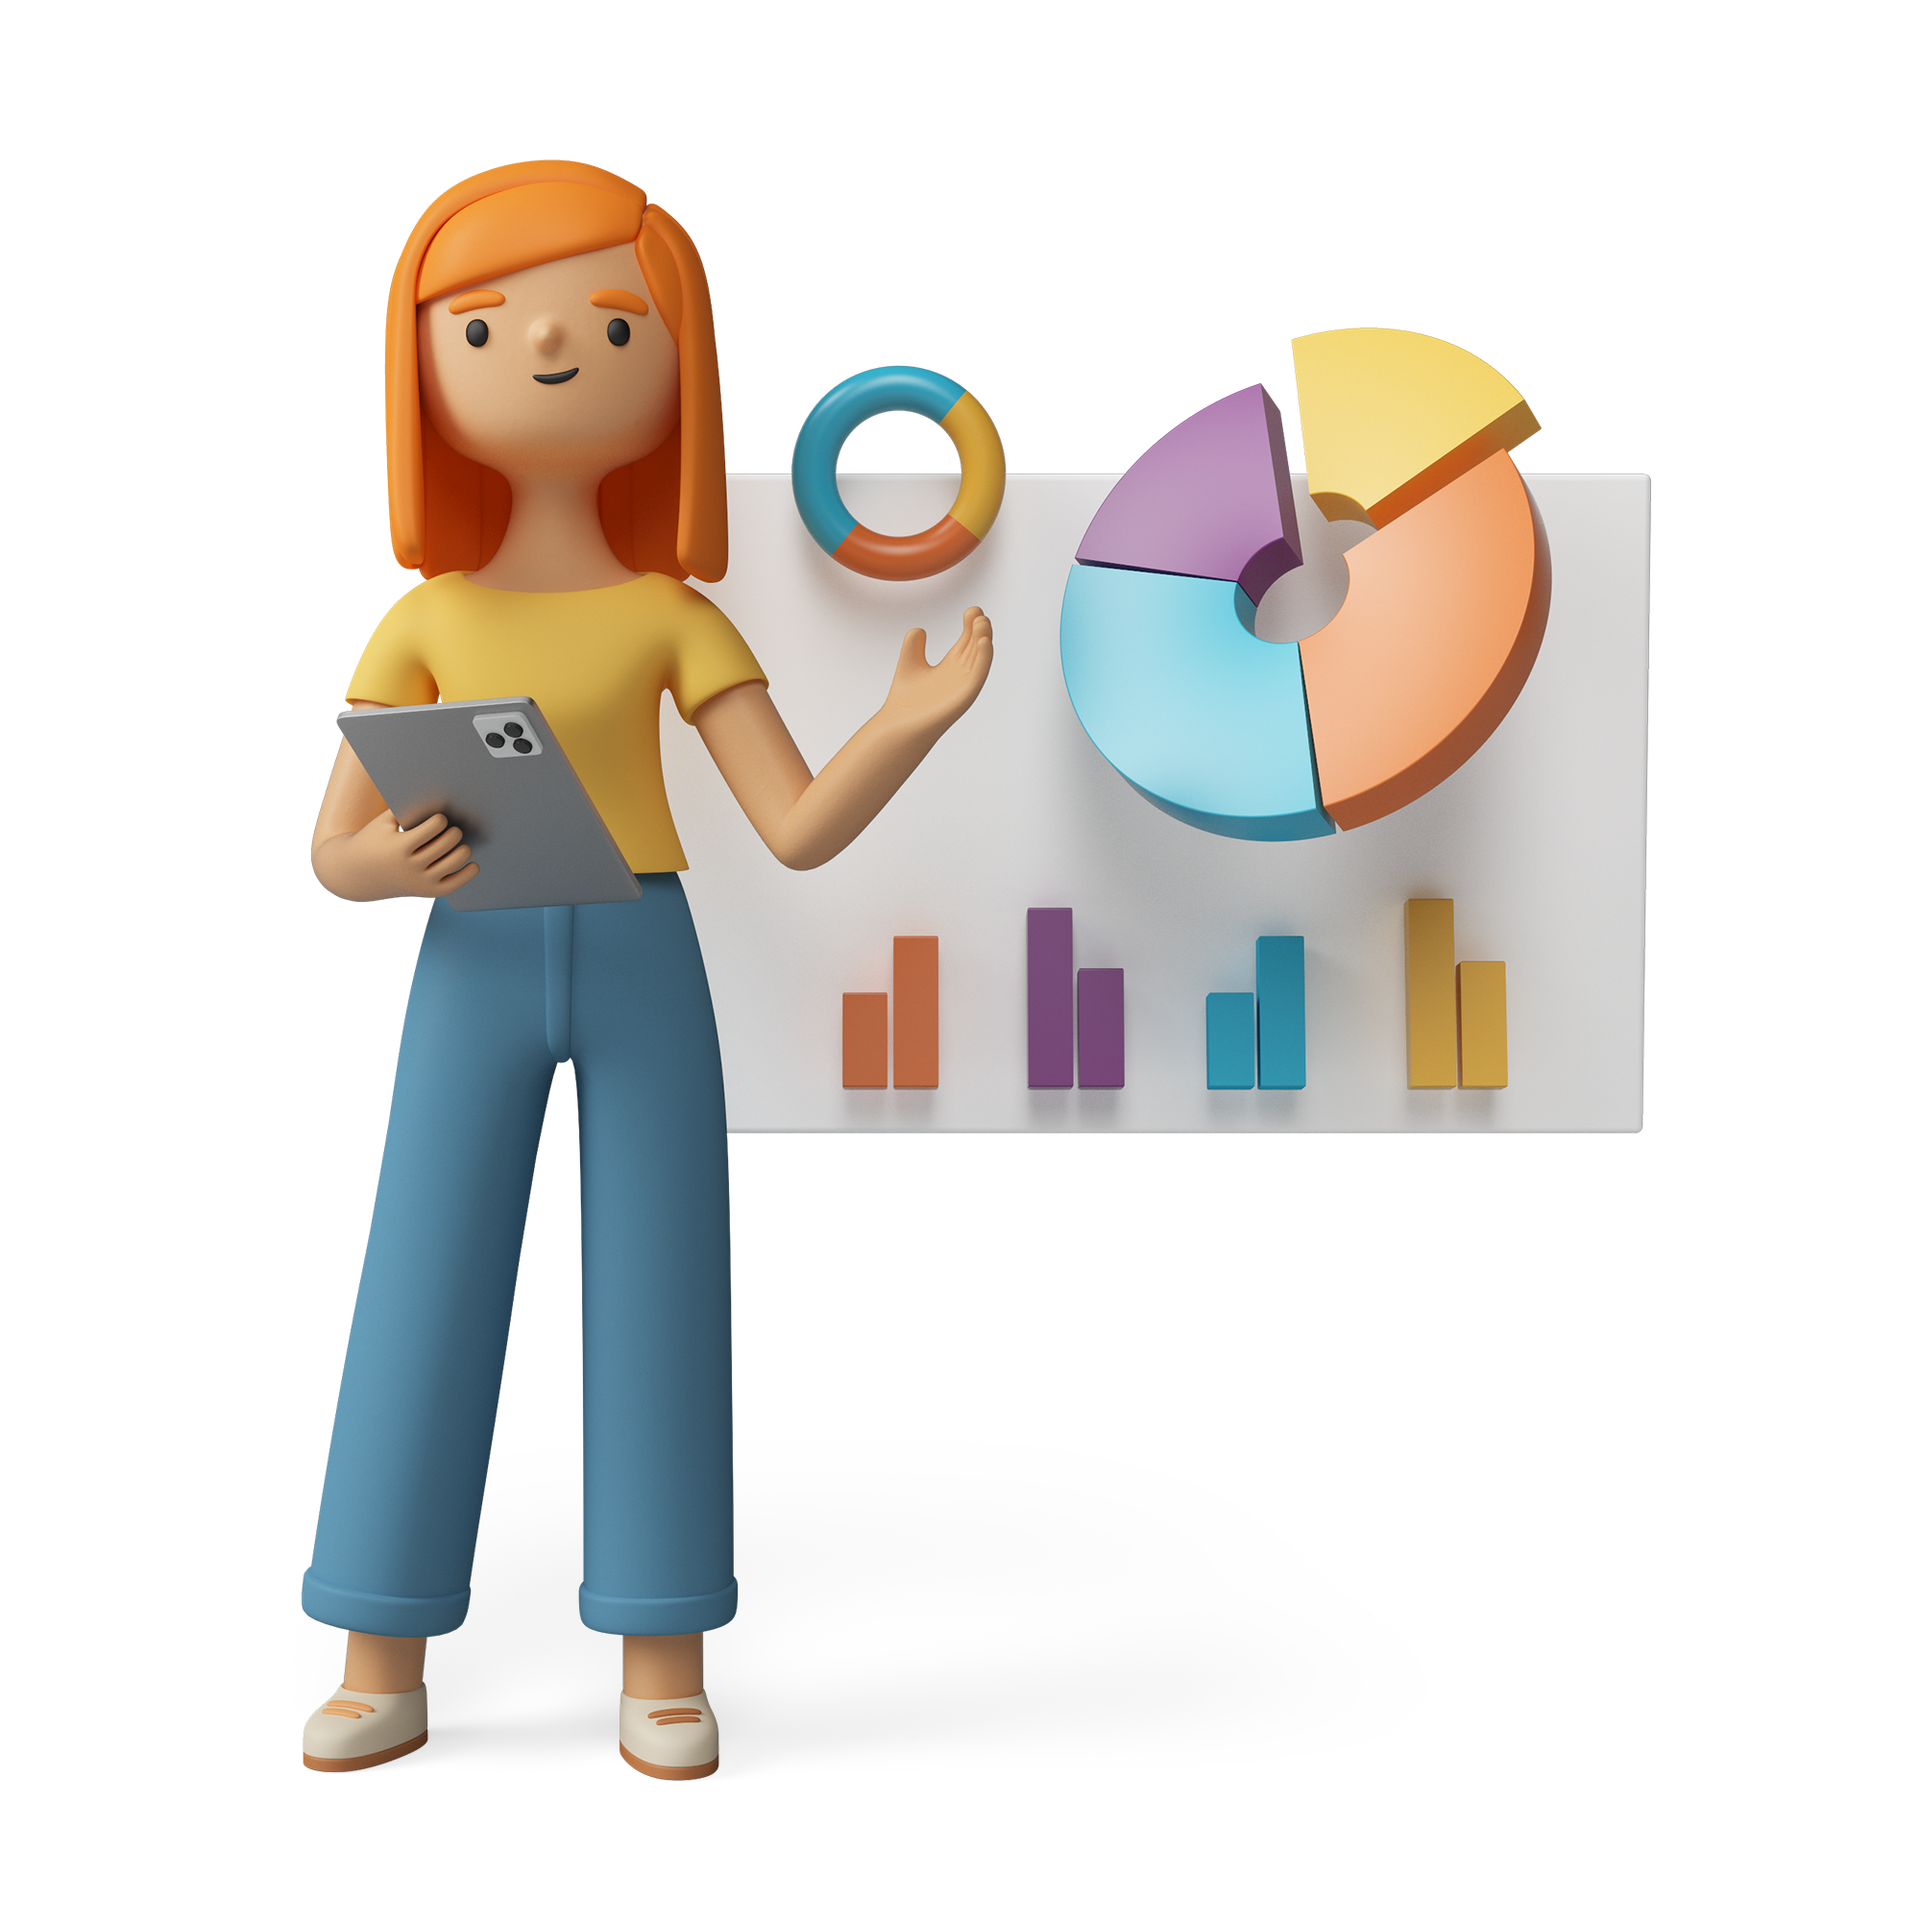
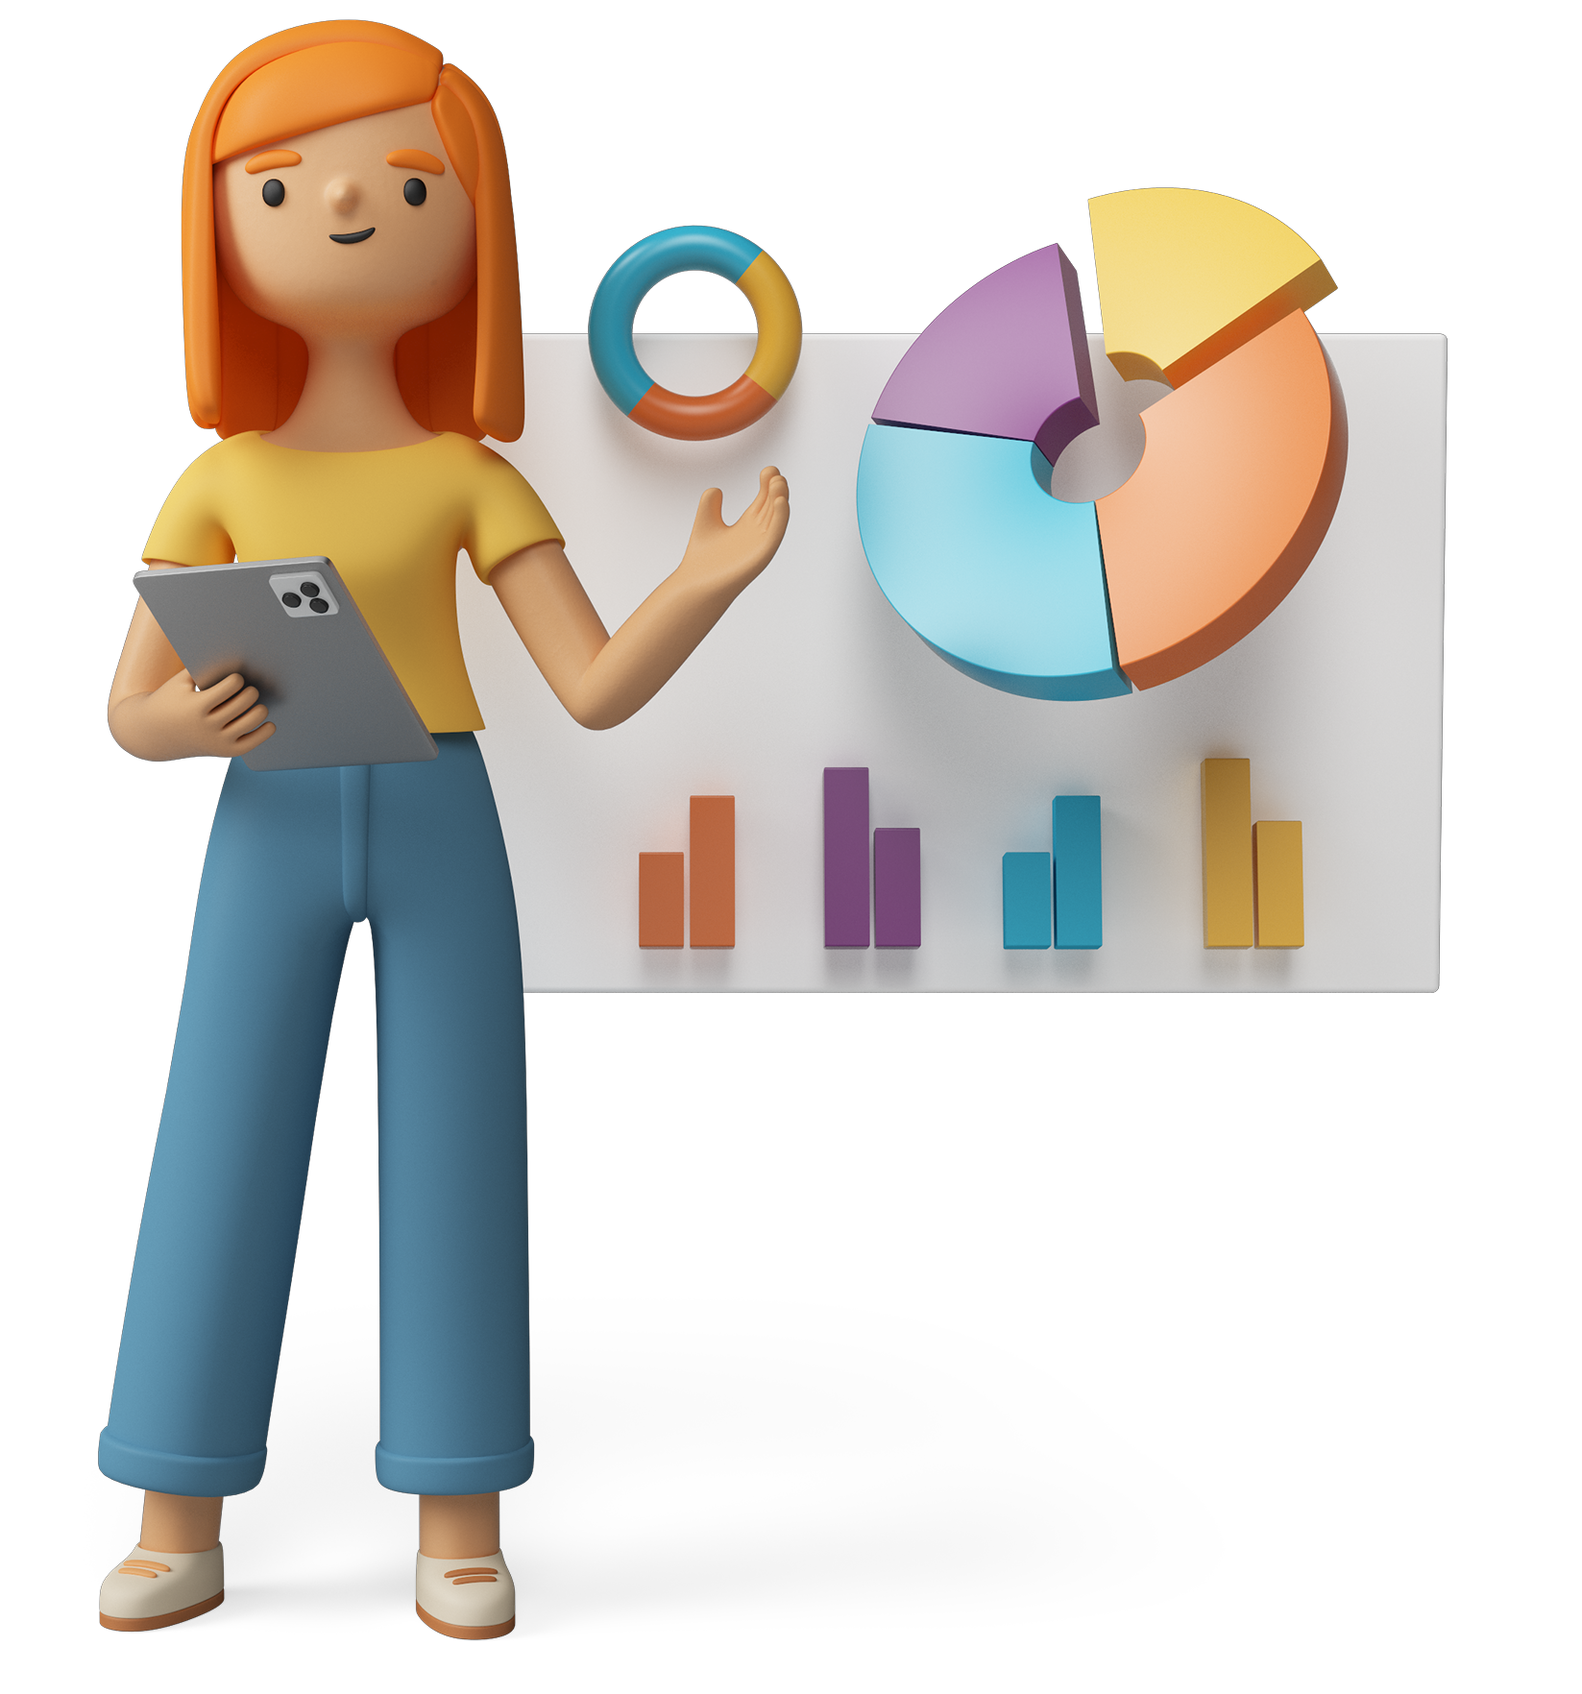
HowItWorks section stuled to be responsive

diff --git a/src/components/HowItWorks/index.jsx b/src/components/HowItWorks/index.jsx
@@ -4,27 +4,30 @@ import chartCharacter from './chart.png';
 export const HowItWorks = () => {
   return (
     <section className="howItWorks" id="howItWorks">
-      <h2 className="howItWorks__heading">Jak pracovat s testy?</h2>
-      <div className="howItWorks__container">
-        <ol className="howItWorks__list">
-          <li className="howItWorks__item">
-            <p className="howItWorks__text">
-              U každého testu si nejprve přečti úvod a poté si projdi otázky.
-            </p>
-          </li>
-          <li className="howItWorks__item">
-            <p className="howItWorks__text">
-              Pamatuj, že neexistují správné a špatné odpovědi.
-            </p>
-          </li>
-          <li className="howItWorks__item">
-            <p className="howItWorks__text">
-              Nad otázkami nepřemýšlej, vyber odpověď, která k tobě nejvíc
-              promlouvá.
-            </p>
-          </li>
-        </ol>
+      <div className="howItWorks__textContent">
+        <h2 className="howItWorks__heading">Jak pracovat s testy?</h2>
+        <div className="howItWorks__container">
+          <ol className="howItWorks__list">
+            <li className="howItWorks__item">
+              <p className="howItWorks__text">
+                U každého testu si nejprve přečti úvod a poté si projdi otázky.
+              </p>
+            </li>
+            <li className="howItWorks__item">
+              <p className="howItWorks__text">
+                Pamatuj, že neexistují správné a špatné odpovědi.
+              </p>
+            </li>
+            <li className="howItWorks__item">
+              <p className="howItWorks__text">
+                Nad otázkami nepřemýšlej, vyber odpověď, která k tobě nejvíc
+                promlouvá.
+              </p>
+            </li>
+          </ol>
+        </div>
       </div>
+
       <div className="howItWorks__img">
         <img src={chartCharacter} alt="Character with a chart" />
       </div>

diff --git a/src/components/HowItWorks/style.css b/src/components/HowItWorks/style.css
@@ -1,3 +1,7 @@
+.howItWorks {
+  margin-top: 40px;
+}
+
 .howItWorks__container {
   counter-reset: list-item;
 }
@@ -13,7 +17,7 @@
   content: counter(list-item);
   counter-increment: list-item;
   color: var(--color-secondary);
-  border: 2px solid var(--color-primary);
+  border: 4px solid var(--color-primary);
   border-radius: 50%;
   width: 50px;
   height: 50px;
@@ -36,4 +40,29 @@
 
 .howItWorks__img {
   display: none;
+}
+
+@media screen and (min-width: 850px) {
+  .howItWorks {
+    display: flex;
+    align-items: center;
+    justify-content: center;
+    gap: 10px;
+  }
+
+  .howItWorks__textContent {
+    justify-self: flex-end;
+  }
+
+  .howItWorks__img {
+    flex-basis: 35%;
+    display: block;
+    width: 100%;
+    flex-shrink: 0;
+  }
+
+  .howItWorks__img img {
+    width: 100%;
+    max-width: 500px;
+  }
 }

diff --git a/src/components/AboutPersonality/style.css b/src/components/AboutPersonality/style.css
@@ -24,7 +24,7 @@
 
 @media screen and (min-width: 850px) {
   .aboutPersonality {
-    margin-top: 0;
+    margin-top: 10px;
     flex-direction: row;
     align-items: center;
     justify-content: center;
